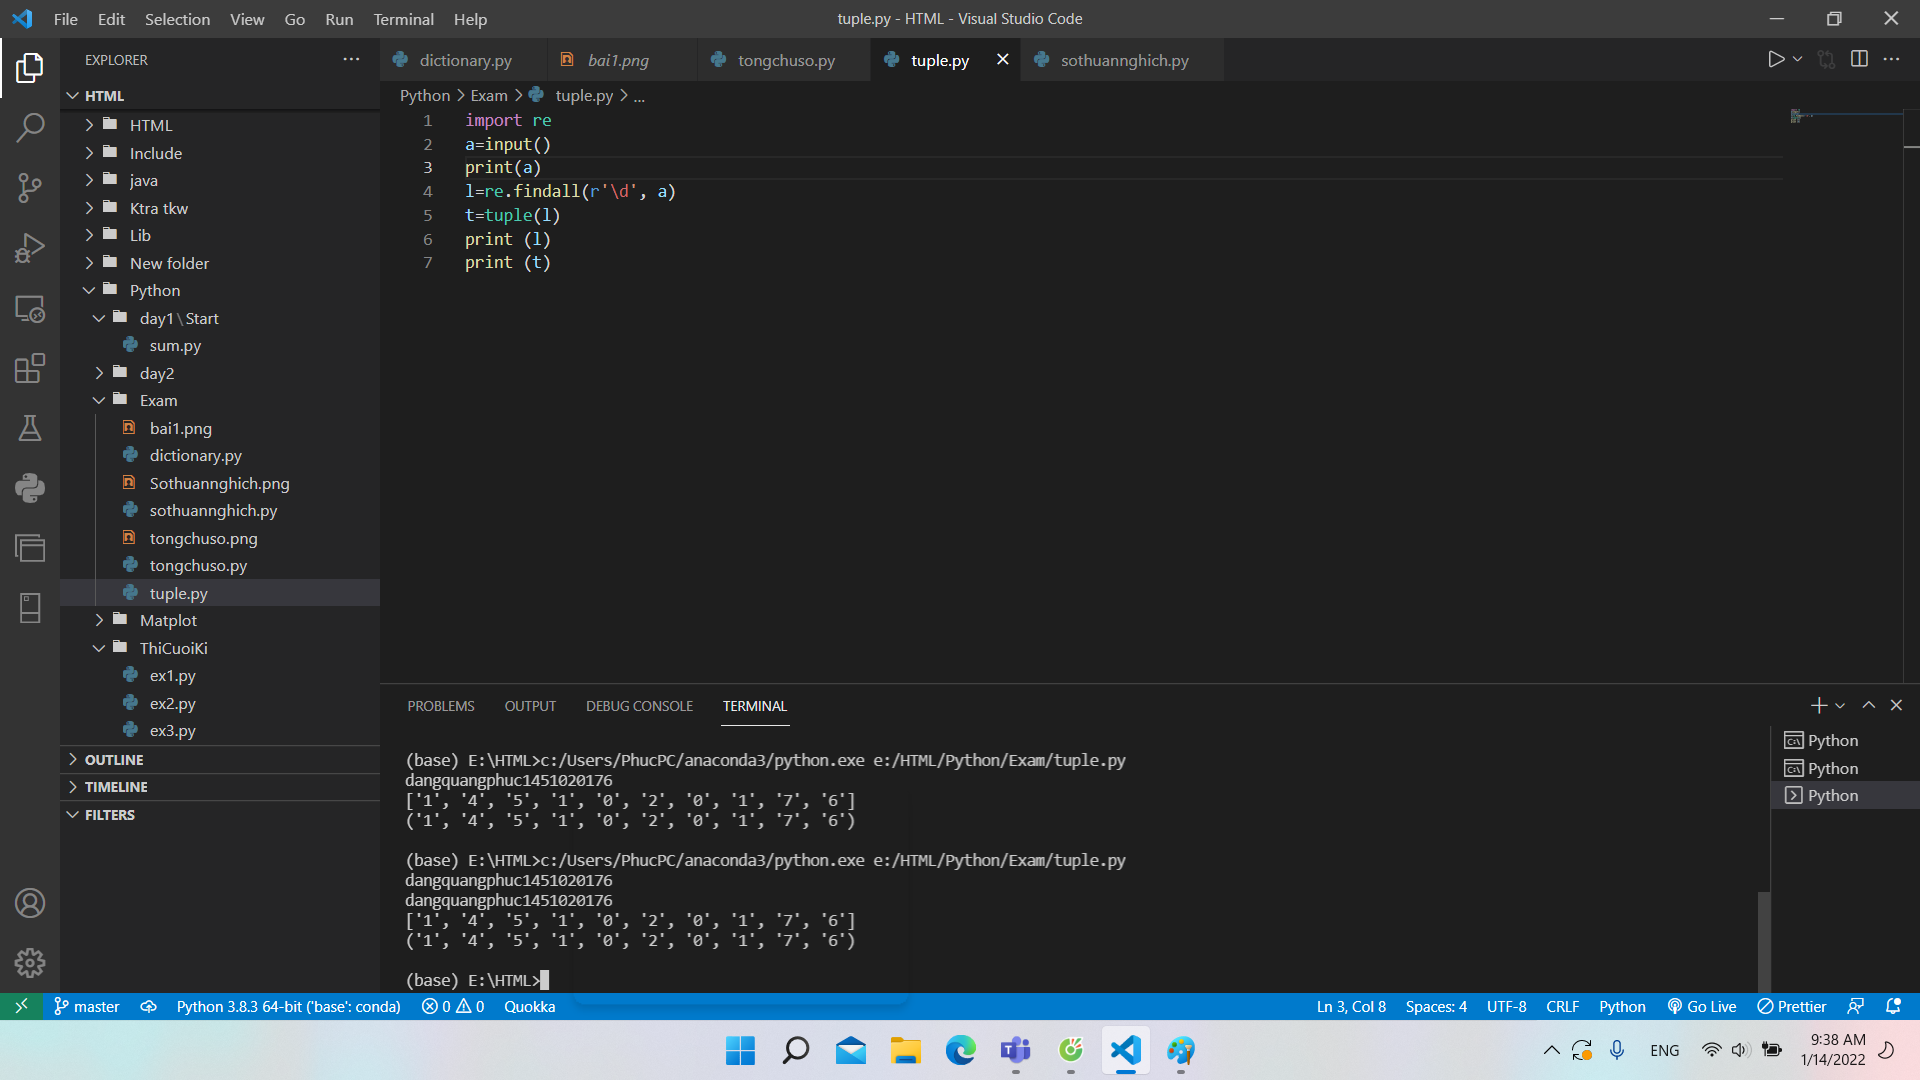
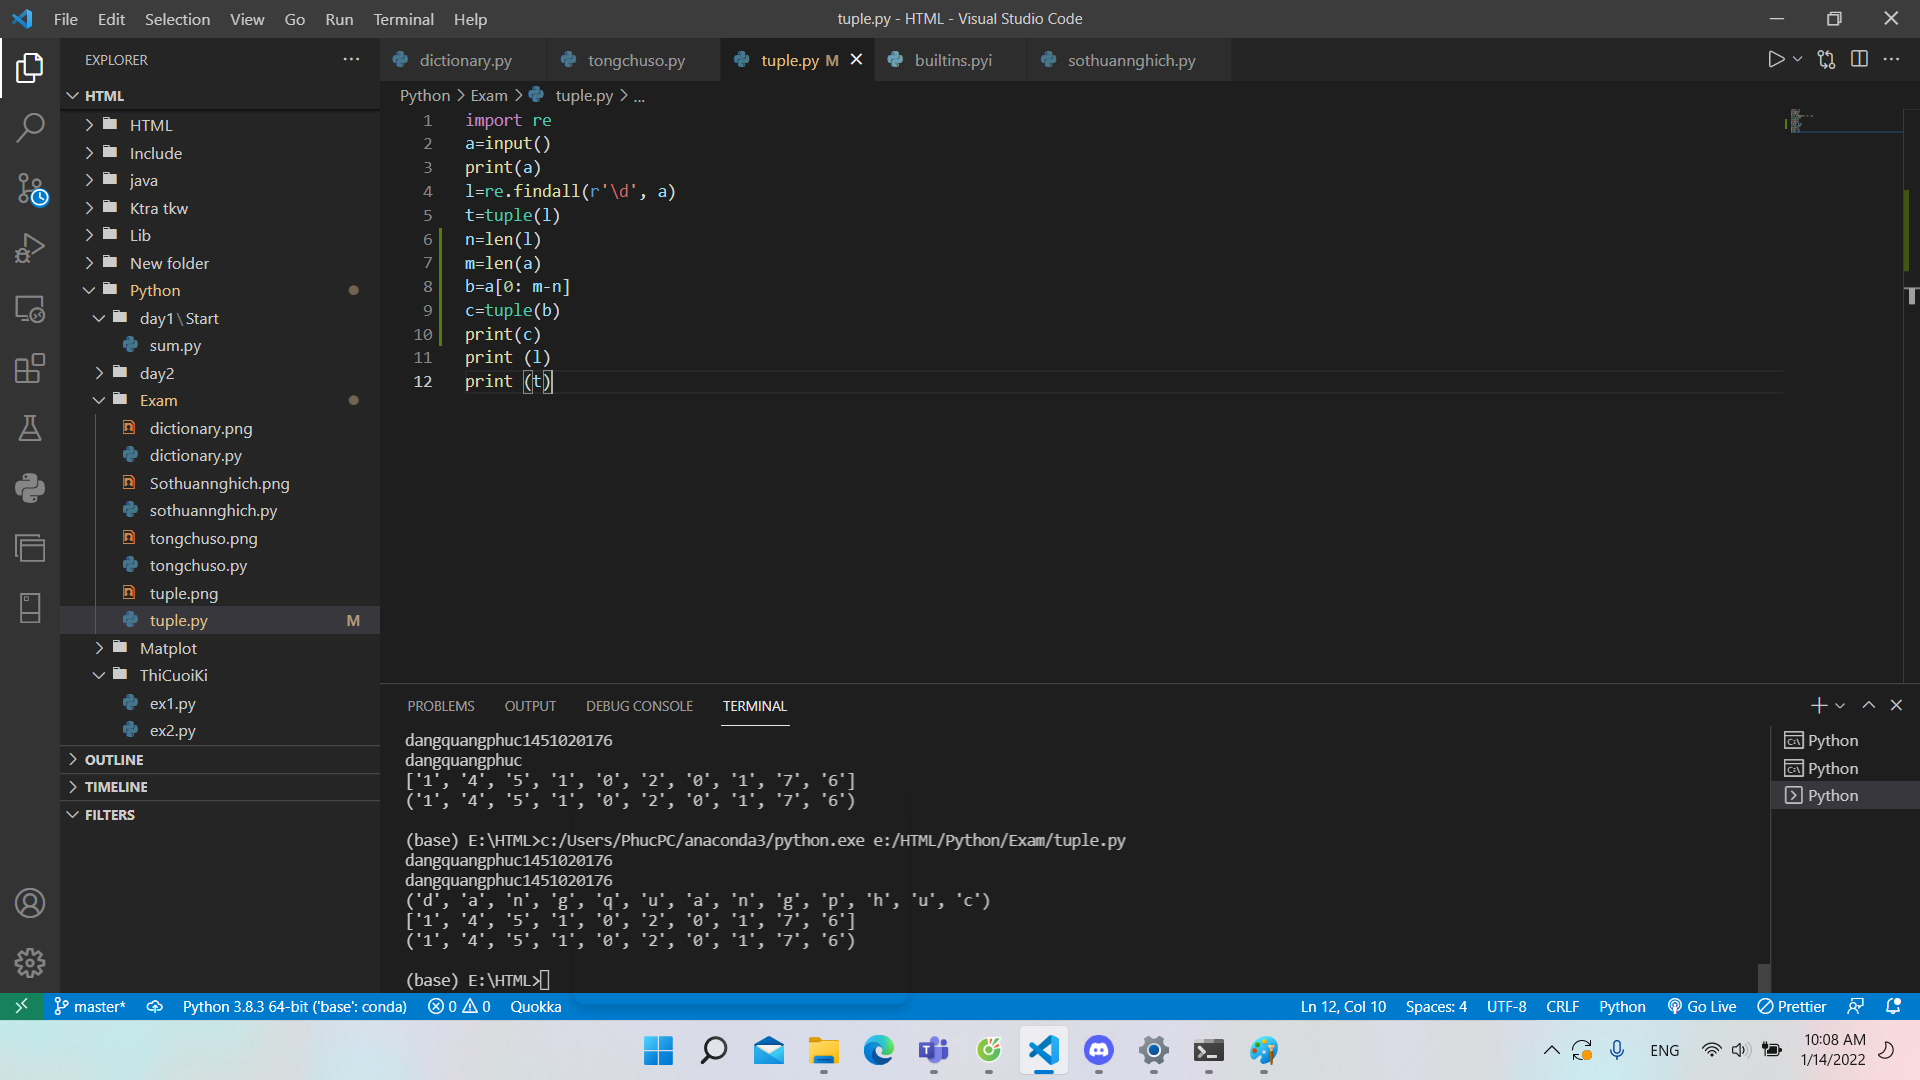
exam

diff --git a/tuple.py b/tuple.py
@@ -3,5 +3,10 @@ a=input()
 print(a)
 l=re.findall(r'\d', a)
 t=tuple(l)
+n=len(l)
+m=len(a)
+b=a[0: m-n]
+c=tuple(b)
+print(c)
 print (l)
 print (t)
